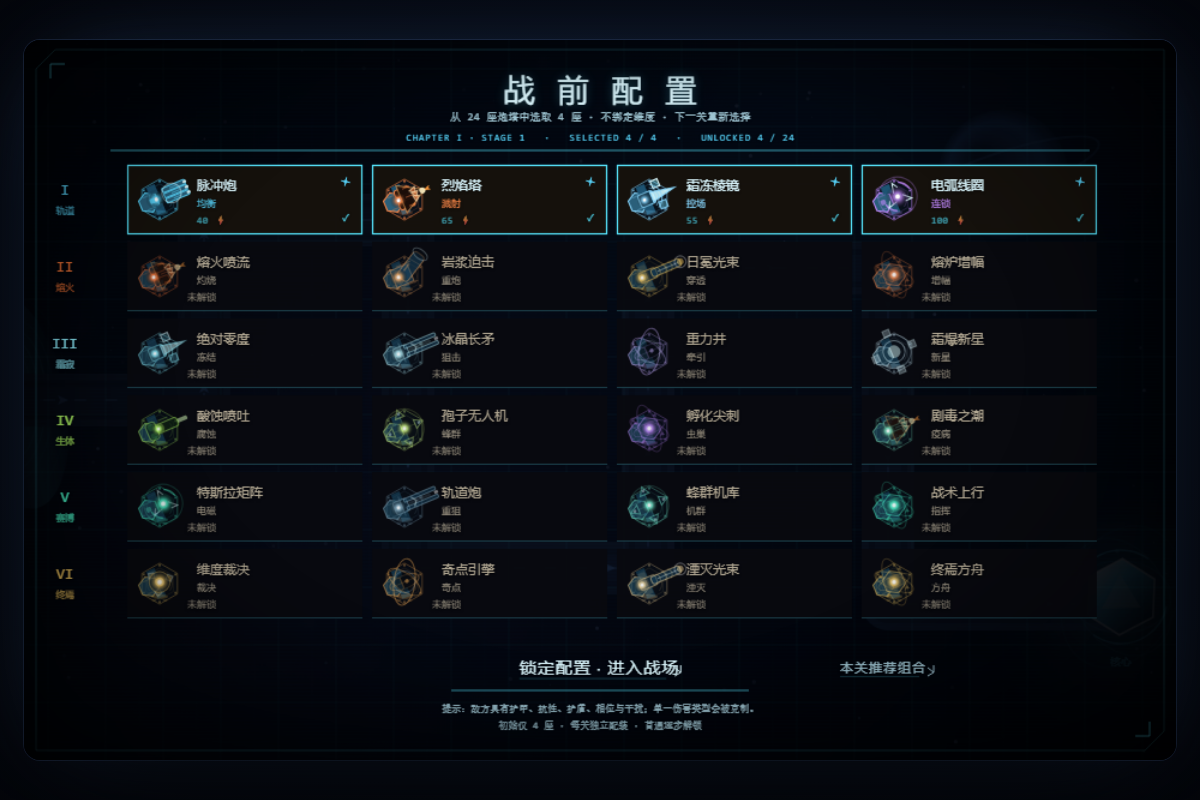
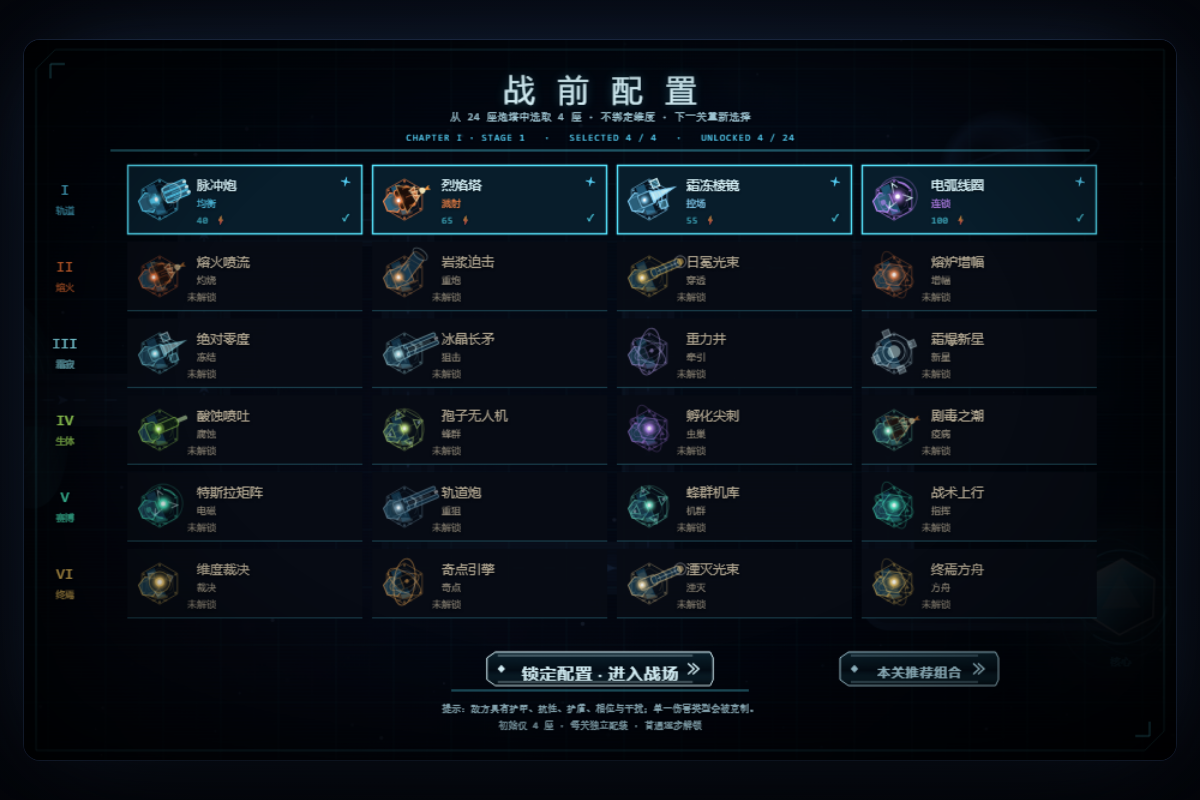
Enhance every option button with sci-fi HUD frames

Changed region(s): [[0.0925, 0.1875, 0.925, 0.3125], [0.4008, 0.8125, 0.6167, 0.875], [0.6783, 0.8125, 0.8325, 0.875]]

diff --git a/game.html b/game.html
@@ -5478,23 +5478,68 @@ function skCompass(cx, cy, r){
   skText('N', cx, cy - r - 8, 7, SK.paperFaint, 'center', 400, true);
   ctx.restore();
 }
-function skLink(id, label, x, y, size, color, action, tip, align, dis){
-  const w = skMeasure(label, size, 400) + 12;
-  const ax = align === 'center' ? x - w / 2 : align === 'right' ? x - w : x;
-  const hot = game.hoverHot && game.hoverHot.id === id;
-  ctx.save();
-  ctx.strokeStyle = hot ? (color || SK.gold) : SK.goldFaint;
-  ctx.lineWidth = 1;
-  ctx.beginPath(); ctx.moveTo(ax, y + size * .58); ctx.lineTo(ax + w - 12, y + size * .58); ctx.stroke();
-  ctx.restore();
-  skText(label, ax, y, size, dis ? SK.paperFaint : (hot ? (color || SK.paper) : (color || SK.paperDim)), 'left', 400, false, 1);
-  if (!dis) {
-    const hx = ax + w;
-    skLine(hx, y - 3, hx, y + 3, color || SK.gold, 1);
-    skLine(hx, y + 3, hx - 5, y - 1, color || SK.gold, 1);
-    skLine(hx, y + 3, hx - 5, y + 6, color || SK.gold, 1);
+function skBtnShape(x, y, w, h, cut){
+  const c = Math.min(cut == null ? 7 : cut, h * .42);
+  ctx.beginPath();
+  ctx.moveTo(x + c, y);
+  ctx.lineTo(x + w - c * .35, y);
+  ctx.lineTo(x + w, y + c * .7);
+  ctx.lineTo(x + w, y + h - c * .7);
+  ctx.lineTo(x + w - c * .35, y + h);
+  ctx.lineTo(x + c, y + h);
+  ctx.lineTo(x, y + h - c * .7);
+  ctx.lineTo(x, y + c * .7);
+  ctx.closePath();
+}
+function skHexShape(cx, cy, r){
+  ctx.beginPath();
+  for (let i = 0; i < 6; i++) {
+    const a = -Math.PI / 2 + i * Math.PI / 3;
+    const px = cx + Math.cos(a) * r, py = cy + Math.sin(a) * r;
+    if (i === 0) ctx.moveTo(px, py); else ctx.lineTo(px, py);
   }
-  addHot(id, ax - 5, y - size, w + 14, size * 2, action, tip, !!dis);
+  ctx.closePath();
+}
+function skLink(id, label, x, y, size, color, action, tip, align, dis){
+  const tw = skMeasure(label, size, 500);
+  const w = Math.max(82, tw + 66);
+  const h = Math.max(28, size * 1.72);
+  const ax = align === 'center' ? x - w / 2 : align === 'right' ? x - w : x;
+  const by = y - h / 2;
+  const hot = !dis && game.hoverHot && game.hoverHot.id === id;
+  const col = color || SK.gold;
+  ctx.save();
+  if (dis) ctx.globalAlpha = .32;
+  skBtnShape(ax, by, w, h, 7);
+  ctx.fillStyle = hot ? 'rgba(12,42,60,.97)' : 'rgba(4,14,24,.92)';
+  ctx.fill();
+  const grd = ctx.createLinearGradient(0, by, 0, by + h);
+  grd.addColorStop(0, hot ? 'rgba(87,230,255,.28)' : 'rgba(87,230,255,.10)');
+  grd.addColorStop(.55, 'rgba(87,230,255,0)');
+  grd.addColorStop(1, 'rgba(0,0,0,.28)');
+  ctx.fillStyle = grd; skBtnShape(ax, by, w, h, 7); ctx.fill();
+  if (hot) { ctx.save(); ctx.shadowColor = SK.gold; ctx.shadowBlur = 16; skBtnShape(ax, by, w, h, 7); ctx.strokeStyle = '#e9ffff'; ctx.lineWidth = 1.5; ctx.stroke(); ctx.restore(); }
+  else { ctx.strokeStyle = col; ctx.lineWidth = 1; skBtnShape(ax, by, w, h, 7); ctx.stroke(); }
+  ctx.globalAlpha *= .55;
+  ctx.strokeStyle = col; ctx.lineWidth = 1;
+  ctx.beginPath();
+  ctx.moveTo(ax + 9, by + 3); ctx.lineTo(ax + w - 17, by + 3);
+  ctx.moveTo(ax + 9, by + h - 3); ctx.lineTo(ax + w - 17, by + h - 3);
+  ctx.stroke();
+  ctx.globalAlpha /= .55;
+  ctx.fillStyle = hot ? '#e9ffff' : col;
+  ctx.beginPath(); ctx.moveTo(ax + 12, y - 3.2); ctx.lineTo(ax + 15.2, y); ctx.lineTo(ax + 12, y + 3.2); ctx.lineTo(ax + 8.8, y); ctx.closePath(); ctx.fill();
+  ctx.strokeStyle = hot ? '#e9ffff' : col; ctx.lineWidth = 1.4;
+  for (let k = 0; k < 2; k++) {
+    ctx.beginPath();
+    ctx.moveTo(ax + w - 17 - k * 4, y - 4.5);
+    ctx.lineTo(ax + w - 12 - k * 4, y);
+    ctx.lineTo(ax + w - 17 - k * 4, y + 4.5);
+    ctx.stroke();
+  }
+  ctx.restore();
+  skText(label, ax + w / 2, y + size * .34, size, dis ? SK.paperFaint : (hot ? '#ffffff' : col), 'center', 600, false, .8);
+  addHot(id, ax, by - 4, w, h + 8, action, tip, !!dis);
   return w;
 }
 function skWrap(s, maxW, size, mono){
@@ -5591,9 +5636,15 @@ function skTop(g){
   for (let i = 0; i < acts.length; i++) {
     const x = bx + i * 22;
     const hot = g.hoverHot && g.hoverHot.id === 'skin_' + acts[i][0];
-    ctx.save(); ctx.strokeStyle = hot ? SK.gold : SK.goldFaint; ctx.lineWidth = 1;
-    ctx.beginPath(); ctx.arc(x, 31, 8, 0, TAU); ctx.stroke(); ctx.restore();
-    skText(acts[i][1], x, 31, 8, hot ? SK.paper : SK.paperDim, 'center', 400, true);
+    ctx.save();
+    skHexShape(x, 31, 9.5);
+    ctx.fillStyle = hot ? 'rgba(15,48,64,.95)' : 'rgba(4,14,24,.8)';
+    ctx.fill();
+    ctx.strokeStyle = hot ? '#e9ffff' : SK.goldFaint; ctx.lineWidth = hot ? 1.4 : 1;
+    if (hot) { ctx.shadowColor = SK.gold; ctx.shadowBlur = 10; }
+    skHexShape(x, 31, 9.5); ctx.stroke();
+    ctx.restore();
+    skText(acts[i][1], x, 31, 8, hot ? SK.paper : SK.paperDim, 'center', 600, true);
     addHot('skin_' + acts[i][0], x - 11, 20, 22, 22, acts[i][2], acts[i][3]);
   }
   skHair(24, 58, 912, SK.goldFaint);
@@ -5654,7 +5705,7 @@ function skBuildRail(g){
   skText('ARMORY', x + w / 2, y - 13, 6, SK.paperFaint, 'center', 400, true, 2.2);
 }
 function skSkillRail(g){
-  const x = 890, y = 108, gap = 61;
+  const x = 890, y = 104, gap = 76;
   skText('SIGILS', x - 3, y - 23, 6.5, SK.goldDim, 'center', 400, true, 2.2);
   for (let i = 0; i < SKILLS.length; i++) {
     const sk = SKILLS[i], yy = y + i * gap;
@@ -5662,16 +5713,25 @@ function skSkillRail(g){
     const ready = cd <= 0 && g.energy >= sk.cost;
     const hot = g.hoverHot && g.hoverHot.id === 'skin_skill_' + sk.id;
     ctx.save();
-    ctx.strokeStyle = ready ? (hot ? SK.paper : SK.gold) : SK.goldFaint;
-    ctx.lineWidth = 1;
-    ctx.beginPath(); ctx.arc(x, yy, 21, 0, TAU); ctx.stroke();
-    if (cd > 0) skArc(x, yy, 21, 1 - cd / sk.cd, SK.goldDim, 2);
+    skHexShape(x, yy, 22);
+    ctx.fillStyle = ready ? (hot ? 'rgba(16,52,68,.95)' : 'rgba(8,28,42,.9)') : 'rgba(4,10,18,.7)';
+    ctx.fill();
+    if (hot) { ctx.save(); ctx.shadowColor = SK.gold; ctx.shadowBlur = 14; skHexShape(x, yy, 22); ctx.strokeStyle = '#e9ffff'; ctx.lineWidth = 1.5; ctx.stroke(); ctx.restore(); }
+    else { skHexShape(x, yy, 22); ctx.strokeStyle = ready ? SK.gold : SK.goldFaint; ctx.lineWidth = 1.1; ctx.stroke(); }
+    if (cd > 0) skArc(x, yy, 22, 1 - cd / sk.cd, SK.goldDim, 2);
+    ctx.strokeStyle = ready ? rgba(SK.gold, .35) : SK.goldFaint; ctx.lineWidth = 1;
+    ctx.beginPath(); ctx.arc(x, yy, 15, .4, 2.7); ctx.stroke();
     ctx.restore();
     const glyph = sk.id === 'bolt' ? '↯' : sk.id === 'nova' ? '◉' : sk.id === 'overclock' ? '≫' : '☄';
     skText(glyph, x, yy, 18, ready ? SK.paper : SK.paperFaint, 'center', 400, false);
-    skText(sk.key || ['Q','W','E','R'][i], x, yy - 25, 7.5, SK.goldDim, 'center', 400, true, 1);
-    skText(cd > 0 ? Math.ceil(cd) + 's' : sk.cost + '⚡', x, yy + 27, 7.5, ready ? SK.paperDim : '#8a8375', 'center', 400, true, .5);
-    skText(sk.name, x, yy + 40, 8, ready ? '#e0d4bd' : '#8a8375', 'center', 400);
+    ctx.save();
+    ctx.fillStyle = 'rgba(3,12,22,.92)';
+    skBtnShape(x - 9, yy - 34, 18, 12, 3); ctx.fill();
+    ctx.strokeStyle = ready ? SK.goldDim : SK.goldFaint; ctx.lineWidth = 1; skBtnShape(x - 9, yy - 34, 18, 12, 3); ctx.stroke();
+    ctx.restore();
+    skText(sk.key || ['Q','W','E','R'][i], x, yy - 25.4, 7.5, ready ? SK.paper : SK.paperFaint, 'center', 600, true, .4);
+    skText(cd > 0 ? Math.ceil(cd) + 's' : sk.cost + '⚡', x, yy + 28, 7.5, ready ? SK.paperDim : '#8a8375', 'center', 400, true, .5);
+    skText(sk.name, x, yy + 41, 8, ready ? '#e0f7ff' : '#8a8375', 'center', 500);
     addHot('skin_skill_' + sk.id, x - 27, yy - 27, 54, 54, () => { if (g.state === 'fight' || g.state === 'build') castSkill(sk.id); }, sk.name + '\n' + sk.desc + '\n' + sk.cost + ' 能量 · CD ' + sk.cd + 's');
   }
 }
@@ -5746,17 +5806,23 @@ function skFolio(g){
       if (!b) continue;
       const bx = fx + 18 + i * 268;
       const hot = g.hoverHot && g.hoverHot.id === 'skin_branch_' + i;
-      ctx.save(); ctx.strokeStyle = hot ? SK.gold : SK.goldFaint; ctx.lineWidth = 1;
-      ctx.strokeRect(bx, fy + 116, 252, 22); ctx.restore();
-      skText(b.name, bx + 8, fy + 127, 8.5, hot ? SK.paper : SK.paperDim, 'left', 400);
-      skText(b.desc.slice(0, 22), bx + 88, fy + 127, 6.5, SK.paperFaint, 'left', 400);
-      addHot('skin_branch_' + i, bx, fy + 116, 252, 22, () => chooseBranch(t, i), b.name + '\n' + b.desc);
+      ctx.save();
+      skBtnShape(bx, fy + 114, 252, 26, 5);
+      ctx.fillStyle = hot ? 'rgba(6,26,38,.98)' : 'rgba(4,14,24,.9)'; ctx.fill();
+      ctx.strokeStyle = hot ? '#e9ffff' : SK.goldDim; ctx.lineWidth = hot ? 1.4 : 1;
+      skBtnShape(bx, fy + 114, 252, 26, 5); ctx.stroke();
+      ctx.fillStyle = hot ? '#e9ffff' : SK.gold;
+      ctx.beginPath(); ctx.moveTo(bx + 8, fy + 123); ctx.lineTo(bx + 12, fy + 127); ctx.lineTo(bx + 8, fy + 131); ctx.lineTo(bx + 4, fy + 127); ctx.closePath(); ctx.fill();
+      ctx.restore();
+      skText(b.name, bx + 18, fy + 130, 8.5, hot ? '#ffffff' : SK.paper, 'left', 500);
+      skText(b.desc.slice(0, 24), bx + 92, fy + 130, 6.3, SK.paperDim, 'left', 400);
+      addHot('skin_branch_' + i, bx, fy + 114, 252, 26, () => chooseBranch(t, i), b.name + '\n' + b.desc);
     }
   } else {
     const label = '升级 [U] +' + upgradeCost(t) + ' ⚡';
     skLink('skin_up', label, fx + 18, fy + 118, 9, SK.paperDim, () => upgradeTower(t), '提升等级；Lv.3 后选择专精', 'left', t.level >= 5);
     skLink('skin_sell', '售出 [X] +' + Math.floor(t.invested * .65) + ' ⚡', fx + 210, fy + 118, 9, SK.paperFaint, () => sellTower(t), '返还 65% 投入');
-    skLink('skin_close', '关闭', fx + 470, fy + 118, 9, SK.paperFaint, () => { g.selectedTower = null; }, '关闭面板');
+    skLink('skin_close', '关闭', fx + 500, fy + 118, 9, SK.paperFaint, () => { g.selectedTower = null; }, '关闭面板', 'right');
   }
   if (t.level >= 5) skText('MAX', fx + 480, fy + 82, 7, SK.goldDim, 'left', 400, true, 1);
 }
@@ -5809,11 +5875,9 @@ function skMenu(){
   const cc = campaignClearCount(), total = CAMPAIGN.chapters * CAMPAIGN.stagesPerChapter;
   skText('已征服 ' + cc + ' / ' + total + '   ·   已解锁炮塔 ' + PROGRESS.unlocked.length + ' / 24   ·   历史最佳 ' + fmt(PROGRESS.best), 114, 254, 8, SK.paperFaint, 'left', 400, true, .5);
 
-  skDiamond(114, 318, 4, SK.gold, SK.gold);
-  skText('进入星图', 132, 316, 21, SK.paper, 'left', 400, false, 2);
-  skText('ENTER THE ATLAS', 134, 334, 6.5, SK.goldDim, 'left', 400, true, 2);
-  skLine(106, 348, 392, 348, SK.goldDim, 1);
-  addHot('skin_menu_start', 104, 294, 300, 60, () => openChapters(), '选择章节与小关 · 每关重新配装');
+  const mw = skLink('skin_menu_start', '进入星图', 108, 320, 21, SK.paper, () => openChapters(), '选择章节与小关 · 每关重新配装');
+  skText('ENTER THE ATLAS', 108 + mw / 2, 350, 6.5, SK.goldDim, 'center', 400, true, 2);
+  skLine(106, 362, 106 + mw, 362, SK.goldFaint, 1);
   const ch = isChallengeUnlocked();
   const cl = ch ? '深渊试炼' : '深渊试炼 · 未解锁';
   skLink('skin_menu_challenge', cl, 108, 380, 11, ch ? SK.red : SK.paperDim, () => { if (ch) openChallenges(); else { setBanner('试炼未解锁', '通关 3 个战役小关后开启', '#b55a4d', 2); sfx('error'); } }, ch ? '高强度敌群与终维首领' : '通关 3 个战役小关后开启', 'left', !ch);
@@ -5902,6 +5966,8 @@ function skChapters(){
     skText(done + ' / 3', n.x + 47, n.y - 9, 8.5, done ? SK.green : SK.paperDim, 'left', 400, true, .6);
     addHot('skin_chap_' + i, n.x - 82, n.y - 52, 164, 156, () => openStages(i + 1),
       '章节 ' + d.roman + ' · ' + d.name + '\n' + done + ' / 3 已通关\n点击查看小关');
+    skLink('skin_chap_btn_' + i, '进入', n.x, n.y + 108, 9.2, d.color, () => openStages(i + 1),
+      '进入 ' + d.name);
   }
 
   const cu = isChallengeUnlocked();
@@ -5967,7 +6033,7 @@ function skStages(){
     skText(best ? '★★★'.slice(0, best) + '☆☆☆'.slice(0, 3 - best) : '未通关', x, 364, 11.5, best ? SK.gold : '#cfc5b2', 'center', 400, false, 2);
     skText(best ? 'BEST ' + best + ' STARS' : '首通解锁新炮塔', x, 381, 8, SK.paperDim, 'center', 400, true, .8);
     skText(info.bossKey ? '首领镇守 · ' + (ENEMY_TYPES[info.bossKey] ? ENEMY_TYPES[info.bossKey].name : '未知') : '六波推进', x, 398, 8, info.bossKey ? '#d59a8c' : SK.paperDim, 'center', 400, true, .5);
-    skLink('skin_stage_btn_' + s, '进入小关', x, 418, 11, d.color, () => startStage(challenge ? 6 : g.chapter, s + 1, challenge, challenge ? s + 1 : 0), '开始后选择 4 座炮塔', 'center');
+    skLink('skin_stage_btn_' + s, '进入小关', x, 424, 11, d.color, () => startStage(challenge ? 6 : g.chapter, s + 1, challenge, challenge ? s + 1 : 0), '开始后选择 4 座炮塔', 'center');
     addHot('skin_stage_' + s, x - 82, y - 74, 164, 164, () => startStage(challenge ? 6 : g.chapter, s + 1, challenge, challenge ? s + 1 : 0), info.name);
   }
   skLink('skin_back_chapters', '返回星图', 70, 558, 10.5, SK.paperDim, () => openChapters(), '返回章节选择');
@@ -6001,10 +6067,13 @@ function skLoadout(){
       const rec = d.towers.indexOf(def.key) >= 0;
       const hot = g.hoverHot && g.hoverHot.id === 'skin_load_' + ti;
       ctx.save();
-      ctx.fillStyle = sel ? 'rgba(22,18,12,.96)' : hot && unlocked ? 'rgba(14,15,20,.98)' : 'rgba(8,10,15,.94)';
+      ctx.fillStyle = sel ? 'rgba(8,30,44,.98)' : hot && unlocked ? 'rgba(12,26,38,.98)' : 'rgba(7,12,20,.94)';
       ctx.fillRect(x, y, cw, chh);
       if (sel) {
-        ctx.strokeStyle = SK.gold; ctx.lineWidth = 1.2;
+        ctx.strokeStyle = SK.gold; ctx.lineWidth = 1.4;
+        ctx.strokeRect(x + .5, y + .5, cw - 1, chh - 1);
+      } else if (hot && unlocked) {
+        ctx.strokeStyle = 'rgba(87,230,255,.62)'; ctx.lineWidth = 1.2;
         ctx.strokeRect(x + .5, y + .5, cw - 1, chh - 1);
       } else {
         ctx.strokeStyle = SK.goldFaint; ctx.lineWidth = 1;
@@ -6023,6 +6092,7 @@ function skLoadout(){
         skText('未解锁', x + 50, y + 47, 8, '#8a8375', 'left', 400);
       }
       if (sel) skText('✓', x + cw - 14, y + chh - 13, 8, SK.gold, 'center', 400, true);
+      else if (unlocked) skText('＋', x + cw - 14, y + chh - 13, 9, hot ? SK.paper : SK.goldDim, 'center', 600, true);
       addHot('skin_load_' + ti, x, y, cw, chh, () => toggleLoadout(ti),
         unlocked ? def.name + ' · ' + def.tag + '\n' + def.desc + '\n造价 ' + Math.round(buildCost(ti)) + ' ⚡' : def.name + ' · 未解锁\n首通关卡以解锁', !unlocked);
     }
@@ -6063,7 +6133,7 @@ function skReward(){
     skText(u.name, cx, 238, 16, hot ? SK.paper : SK.paper, 'center', 500, false, 1.5);
     const lines = skWrap(u.desc || '', 172, 8.5);
     for (let j = 0; j < Math.min(3, lines.length); j++) skText(lines[j], cx, 267 + j * 17, 9, SK.paperDim, 'center', 400);
-    skLink('skin_reward_' + i, '择取', cx, 392, 11, u.color || SK.gold, () => chooseReward(i), '选择 ' + u.name, 'center');
+    skLink('skin_reward_' + i, '选择此强化', cx, 392, 10, u.color || SK.gold, () => chooseReward(i), '选择 ' + u.name, 'center');
     addHot('skin_reward_area_' + i, cx - 112, 146, 224, 294, () => chooseReward(i), u.name + '\n' + u.desc);
   }
   skLink('skin_skip', '跳过 · 获得 45 能量', 480, 512, 10, SK.paperDim, () => skipReward(), '放弃强化，换取能量', 'center');

diff --git a/index.html b/index.html
@@ -300,7 +300,7 @@
       在 <em>6 章 × 3 小关 × 6 波</em> 的战役中守住最后一束光；通关 3 关后开启深渊试炼。</p>
       <div class="hero-note"><i class="dot"></i>ASTRAL NAVIGATOR 星舰界面 · 直接开玩</div>
       <div class="cta">
-        <a class="btn" href="game.html?v=8">
+        <a class="btn" href="game.html?v=9">
           <svg viewBox="0 0 24 24" fill="currentColor"><path d="M8 5v14l11-7z"/></svg>
           立即游玩
         </a>
@@ -319,16 +319,16 @@
     <section id="play" style="padding-top:20px">
       <div class="sec-head">
         <div><div class="kicker">PLAYABLE PREVIEW</div><h2>现在就开始</h2></div>
-        <p>无需下载安装。点击画面即可操作；若内嵌画面无响应，<a href="game.html?v=8" target="_blank" rel="noopener" style="color:var(--cyan)">点此全屏游玩 ↗</a></p>
+        <p>无需下载安装。点击画面即可操作；若内嵌画面无响应，<a href="game.html?v=9" target="_blank" rel="noopener" style="color:var(--cyan)">点此全屏游玩 ↗</a></p>
       </div>
       <div class="frame">
         <div class="frame-bar">
           <div class="traffic"><i></i><i></i><i></i></div>
           <div class="url mono">dimension-conquest.github.io/game</div>
-          <a class="open" href="game.html?v=8" target="_blank" rel="noopener">全屏 ↗</a>
+          <a class="open" href="game.html?v=9" target="_blank" rel="noopener">全屏 ↗</a>
         </div>
         <div class="game-stage">
-          <iframe id="gameFrame" src="game.html?v=8" title="维度征服游戏" allow="fullscreen"></iframe>
+          <iframe id="gameFrame" src="game.html?v=9" title="维度征服游戏" allow="fullscreen"></iframe>
           <div class="stage-glow"></div>
           <div class="stage-tip">点击画面开始 · 空格暂停 · 1–4 选塔</div>
         </div>
@@ -409,7 +409,7 @@
       </div>
       <div class="split">
         <div class="shot">
-          <img src="assets/codex.png" alt="二十四座科幻炮塔与战前配置">
+          <img src="assets/codex.png?v=9" alt="二十四座科幻炮塔与战前配置">
           <div class="cap">六章星系 · 自由选关</div>
         </div>
         <div class="control-card">
